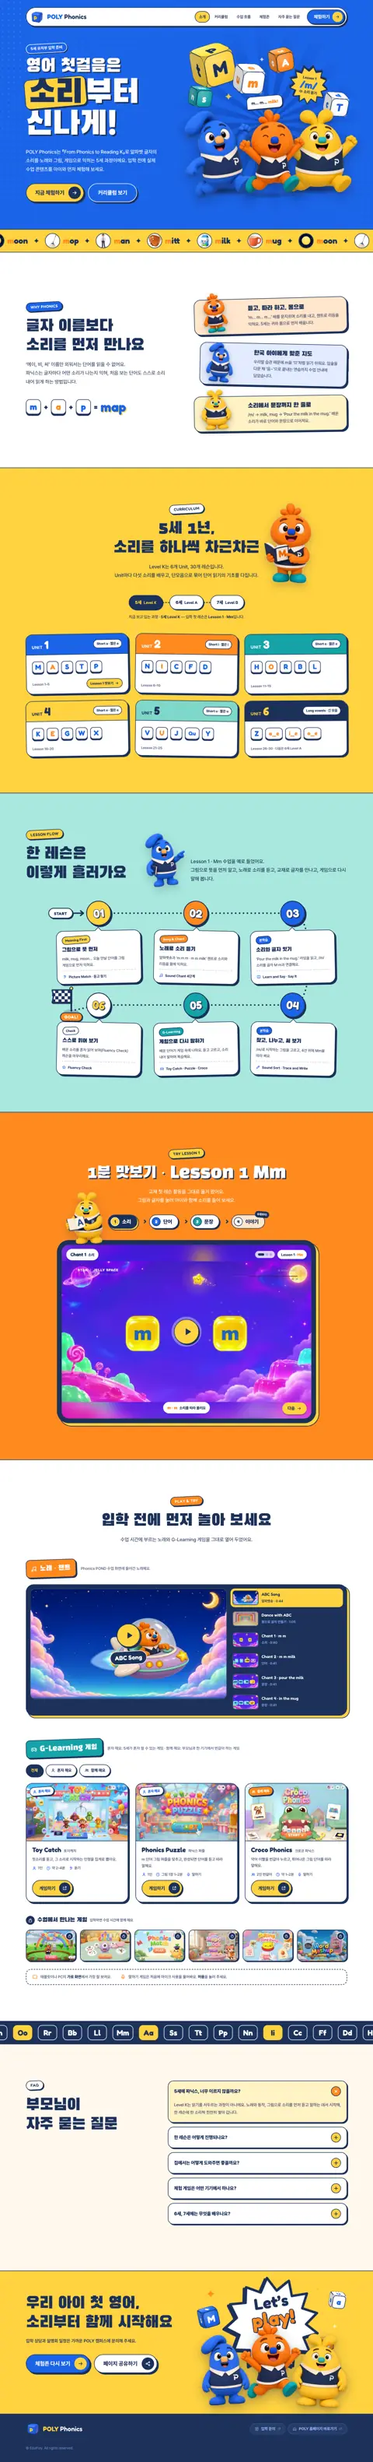
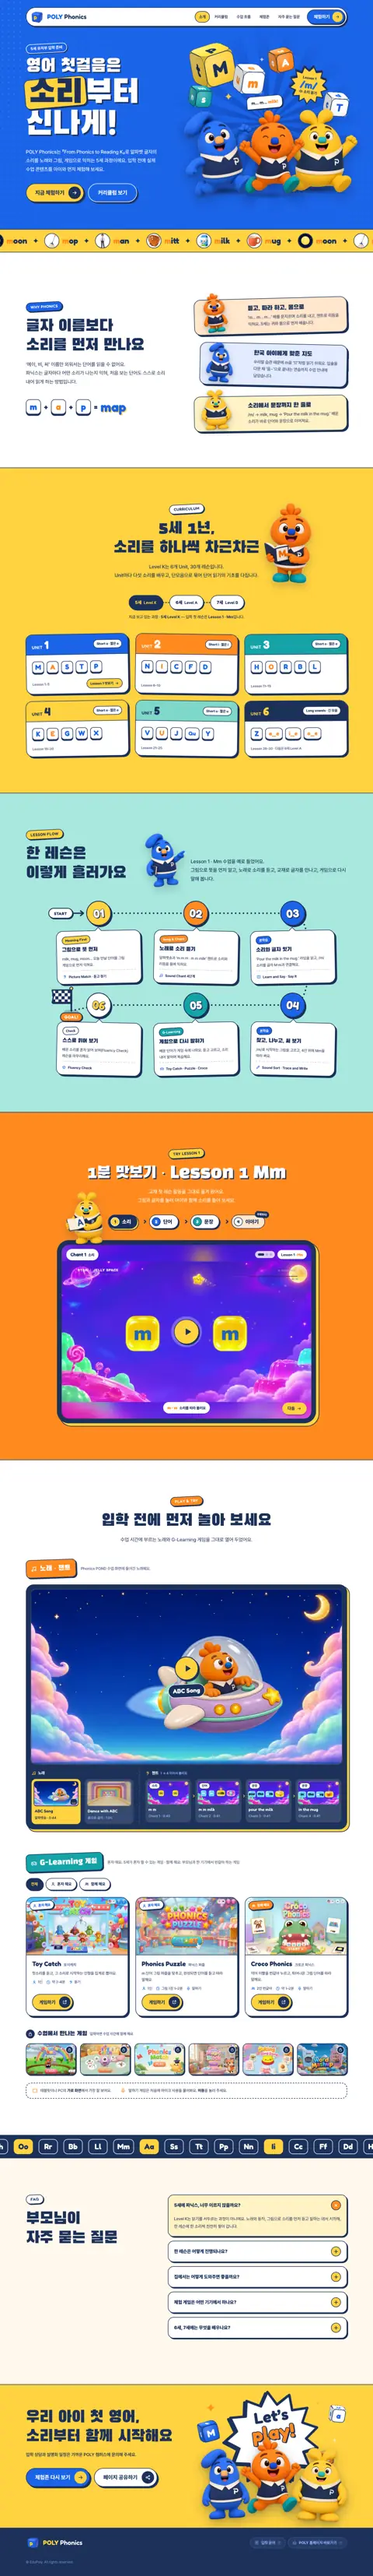
C: songs player = big screen + grouped rail (노래 | 챈트 1→4); survey faces move as a whole
- Player: full-width video, thumbnails below in two groups, chant cards carry 소리/단어/문장 chips and lyrics,
  now-playing bars; phones get 2-col / 2x2 grids (no side-scroll)
- Survey: drop the head/body split (it opened gaps at the collar); the whole figure moves from its base, blinks and heartbeats stay

diff --git a/assets/css/survey.css b/assets/css/survey.css
@@ -49,13 +49,9 @@
 @keyframes svFloat { 0%, 100% { translate: 0 0; } 50% { translate: 0 -3px; } }
 .sv-t { font-size: 13px; font-weight: 700; color: var(--sv-muted); text-align: center; line-height: 1.25; word-break: keep-all; }
 .sv-faces label:hover { transform: translateY(-2px); }
-/* layered faces (tools/survey_faces.py): the head turns on its neck, eyes blink, hearts beat — body (collar) stays in front */
-.sv-face { position: relative; }
-.sv-face img, .sv-hd { position: absolute; inset: 0; width: 100%; height: 100%; }
-.sv-hd { transform-origin: var(--neck, 50% 72%); animation: svIdle 3.6s ease-in-out infinite; }
-.sv-faces .f1 { --neck: 49% 74%; } .sv-faces .f2 { --neck: 50% 74%; } .sv-faces .f3 { --neck: 49% 75%; } .sv-faces .f4 { --neck: 45% 63%; } .sv-faces .f5 { --neck: 50% 68%; }
-.sv-faces .f2 .sv-hd { animation-delay: -1s; } .sv-faces .f3 .sv-hd { animation-delay: -2s; } .sv-faces .f4 .sv-hd { animation-delay: -.5s; } .sv-faces .f5 .sv-hd { animation-delay: -2.6s; }
-@keyframes svIdle { 0%, 100% { rotate: 0deg; } 50% { rotate: 1.6deg; } }
+/* faces: the whole figure moves from its base (no separate head — that opened gaps at the collar); eyes blink, hearts beat */
+.sv-face { position: relative; transform-origin: 50% 100%; }
+.sv-face img { position: absolute; inset: 0; width: 100%; height: 100%; }
 .sv-lid { opacity: 0; animation: svBlink 4.4s infinite; }
 .sv-faces .f3 .sv-lid { animation-delay: -1.7s; } .sv-faces .f4 .sv-lid { animation-delay: -3.1s; }
 @keyframes svBlink { 0%, 92%, 95.6%, 100% { opacity: 0; } 92.2%, 95.4% { opacity: 1; } }   /* snap shut and open — a cross-fade reads as glasses */
@@ -64,23 +60,19 @@
 @keyframes svBeat { 0%, 40%, 100% { scale: 1; } 12% { scale: 1.16; } 26% { scale: 1.06; } }
 /* picked or hovered: each face acts out its feeling */
 .sv-faces label:hover .sv-face, .sv-faces label:has(input:checked) .sv-face { scale: 1.06; }
-.sv-faces .f1:hover .sv-hd, .sv-faces .f1:has(input:checked) .sv-hd { animation: svNo 1.3s ease-in-out infinite; }             /* 전혀요: shakes head */
-.sv-faces .f2:hover .sv-hd, .sv-faces .f2:has(input:checked) .sv-hd { animation: svSigh 2.4s ease-in-out infinite; }           /* 별로: droops, sighs */
-.sv-faces .f2:hover .sv-face, .sv-faces .f2:has(input:checked) .sv-face { animation: svSighBody 2.4s ease-in-out infinite; transform-origin: 50% 100%; }
-.sv-faces .f3:hover .sv-hd, .sv-faces .f3:has(input:checked) .sv-hd { animation: svTilt 2s ease-in-out infinite; }             /* 보통: tilts, blinks */
-.sv-faces .f3:hover .sv-lid, .sv-faces .f3:has(input:checked) .sv-lid { animation-duration: 2s; }
-.sv-faces .f4:hover .sv-hd, .sv-faces .f4:has(input:checked) .sv-hd { animation: svYes .8s ease-in-out infinite; }              /* 좋아했어요: nods */
-.sv-faces .f4:hover .sv-face, .sv-faces .f4:has(input:checked) .sv-face { animation: svBounce .8s ease-in-out infinite; transform-origin: 50% 100%; }
-.sv-faces .f5:hover .sv-hd, .sv-faces .f5:has(input:checked) .sv-hd { animation: svSway 1.1s ease-in-out infinite; }            /* 아주 좋아했어요: sways, hearts race */
-.sv-faces .f5:hover .sv-face, .sv-faces .f5:has(input:checked) .sv-face { animation: svBounce .55s ease-in-out infinite; transform-origin: 50% 100%; }
-.sv-faces .f5:hover .sv-heart, .sv-faces .f5:has(input:checked) .sv-heart { animation-duration: .55s; }
-@keyframes svNo { 0%, 100% { rotate: 0deg; } 8% { rotate: -7deg; } 20% { rotate: 7deg; } 32% { rotate: -5deg; } 44% { rotate: 3deg; } 54% { rotate: 0deg; } }
-@keyframes svSigh { 0%, 100% { rotate: 0deg; translate: 0 0; } 45%, 70% { rotate: -9deg; translate: 0 3%; } }
-@keyframes svSighBody { 0%, 100% { scale: 1.06 1.06; } 45%, 70% { scale: 1.08 1.01; } }
-@keyframes svTilt { 0%, 100% { rotate: 0deg; } 35%, 65% { rotate: 7deg; } }
-@keyframes svYes { 0%, 100% { rotate: 0deg; translate: 0 0; } 30% { rotate: 4deg; translate: 0 4%; } 60% { rotate: -2deg; translate: 0 -1%; } }
-@keyframes svBounce { 0%, 100% { translate: 0 0; scale: 1.06 1.06; } 15% { scale: 1.12 .98; } 45% { translate: 0 -9%; scale: 1.02 1.1; } 75% { translate: 0 0; scale: 1.1 1; } }
-@keyframes svSway { 0%, 100% { rotate: -6deg; } 50% { rotate: 6deg; } }
+.sv-faces .f1:hover .sv-face, .sv-faces .f1:has(input:checked) .sv-face { animation: svNo 1.4s ease-in-out infinite; }      /* 전혀요: shakes, no no */
+.sv-faces .f2:hover .sv-face, .sv-faces .f2:has(input:checked) .sv-face { animation: svSigh 2.6s ease-in-out infinite; }    /* 별로: slumps with a sigh */
+.sv-faces .f3:hover .sv-face, .sv-faces .f3:has(input:checked) .sv-face { animation: svTilt 2.2s ease-in-out infinite; }    /* 보통: a gentle lean */
+.sv-faces .f3:hover .sv-lid, .sv-faces .f3:has(input:checked) .sv-lid { animation-duration: 2.2s; }
+.sv-faces .f4:hover .sv-face, .sv-faces .f4:has(input:checked) .sv-face { animation: svBounce .8s ease-in-out infinite; }   /* 좋아했어요: hops */
+.sv-faces .f5:hover .sv-face, .sv-faces .f5:has(input:checked) .sv-face { animation: svJoy 1s ease-in-out infinite; }       /* 아주 좋아했어요: hops and sways, hearts race */
+.sv-faces .f5:hover .sv-heart, .sv-faces .f5:has(input:checked) .sv-heart { animation-duration: .5s; }
+@keyframes svNo { 0%, 60%, 100% { rotate: 0deg; } 10% { rotate: -4deg; } 22% { rotate: 4deg; } 34% { rotate: -3deg; } 46% { rotate: 2deg; } }
+@keyframes svSigh { 0%, 100% { rotate: 0deg; scale: 1.06 1.06; } 45%, 70% { rotate: -3deg; scale: 1.09 1.01; } }
+@keyframes svTilt { 0%, 100% { rotate: 0deg; } 35%, 65% { rotate: 3.5deg; } }
+@keyframes svBounce { 0%, 100% { translate: 0 0; scale: 1.06 1.06; } 15% { scale: 1.11 .99; } 45% { translate: 0 -8%; scale: 1.03 1.09; } 75% { translate: 0 0; scale: 1.09 1.01; } }
+@keyframes svJoy { 0%, 100% { translate: 0 0; rotate: 0deg; scale: 1.06 1.06; } 12% { scale: 1.1 1; } 30% { translate: 0 -8%; rotate: -4deg; scale: 1.03 1.09; }
+  50% { translate: 0 0; rotate: 0deg; scale: 1.1 1; } 70% { translate: 0 -8%; rotate: 4deg; scale: 1.03 1.09; } }
 .sv-faces label:has(input:checked) { border-color: var(--sv-accent); background: var(--sv-accent-soft); }
 .sv-faces label:has(input:checked) .sv-t { color: var(--sv-ink); }
 .sv input[type=radio] { position: absolute; opacity: 0; pointer-events: none; }
@@ -137,5 +129,5 @@
   .sv-actions { flex-direction: column-reverse; }
   .sv-later, .sv-send { width: 100%; }
 }
-@media (prefers-reduced-motion: reduce) { .sv.is-in .sv-card, .sv-face, .sv-hd, .sv-lid, .sv-heart, .sv-big, .sv-meter b { animation: none !important; } }
+@media (prefers-reduced-motion: reduce) { .sv.is-in .sv-card, .sv-face, .sv-lid, .sv-heart, .sv-big, .sv-meter b { animation: none !important; } }
 @media print { .sv { display: none !important; } }

diff --git a/assets/css/concept-c.css b/assets/css/concept-c.css
@@ -604,15 +604,55 @@ button.g:hover { transform: translate(2px, 2px); box-shadow: 2px 2px 0 var(--c-n
 .screen-title { font-family: var(--f-en); font-weight: 700; font-size: 24px; color: var(--c-white); letter-spacing: 0; padding: 4px 16px; border-radius: 999px; background: var(--c-navy); border: 2px solid var(--c-white); rotate: -3deg; }
 .screen.is-playing .screen-play { opacity: 0; pointer-events: none; }
 .print-poster { display: none; }
-.playlist { list-style: none; margin: 0; padding: 0; display: flex; flex-direction: column; gap: 8px; }
-.pl { width: 100%; display: flex; align-items: center; gap: 12px; padding: 6px; border-radius: 16px; border: 2px solid transparent; text-align: left; color: var(--c-white); transition: background-color .3s var(--ease), border-color .3s var(--ease); }
-.pl:hover { background: var(--c-white-a12); }
+/* player: big screen on top, a rail of thumbnails below in two groups — 노래 | 챈트 1→4 (user 2026-11-25) */
+.player { grid-template-columns: 1fr; gap: 16px; padding: 16px; }
+.pl-rail { display: grid; grid-template-columns: 2fr 4fr; gap: 0; }
+.pl-group { min-width: 0; padding: 4px 4px 2px; }
+.pg-chant { padding-left: 22px; margin-left: 18px; border-left: 2px dashed var(--c-white-a20); }
+.pg-head { display: flex; align-items: center; gap: 7px; margin: 0 0 10px; font-weight: 800; font-size: 15px; color: var(--c-white); }
+.pg-head .ic { width: 18px; height: 18px; color: var(--c-yellow); }
+.pg-head small { font-size: 13px; font-weight: 700; color: var(--c-blue-300); }
+.playlist { list-style: none; margin: 0; padding: 0; display: grid; grid-auto-flow: column; grid-auto-columns: 1fr; gap: 16px; }
+.playlist li { position: relative; min-width: 0; }
+.pg-chant .playlist li:not(:last-child)::after { content: ""; position: absolute; top: calc(50% - 22px); right: -12px; width: 7px; height: 7px;
+  border-top: 2.5px solid var(--c-yellow); border-right: 2.5px solid var(--c-yellow); transform: rotate(45deg); }
+.pl { width: 100%; display: flex; flex-direction: column; gap: 8px; padding: 6px 6px 10px; border-radius: 16px; border: 2px solid transparent; text-align: left; color: var(--c-white);
+  background: var(--c-white-a12); cursor: pointer; transition: background-color .3s var(--ease), border-color .3s var(--ease), transform .3s var(--ease); }
+.pl:hover { background: var(--c-white-a20); transform: translateY(-2px); }
 .pl.is-on { background: var(--c-yellow); color: var(--c-navy); border-color: var(--c-yellow); }
-.pl img { width: 100px; aspect-ratio: 16 / 9; object-fit: cover; border-radius: 10px; border: 2px solid var(--c-white-a20); flex: none; }
-.pl.is-on img { border-color: var(--c-navy); }
-.pl b { display: block; font-family: var(--f-en); font-weight: 600; font-size: 16px; letter-spacing: 0; line-height: 1.3; }
+.pl-shot { position: relative; display: block; }
+.pl-shot img { display: block; width: 100%; aspect-ratio: 16 / 9; object-fit: cover; border-radius: 11px; border: 2px solid var(--c-white-a20); }
+.pl.is-on .pl-shot img { border-color: var(--c-navy); }
+.pl-stage { position: absolute; left: 6px; top: 6px; padding: 2px 9px; border-radius: 999px; background: var(--c-white); color: var(--c-navy); border: 2px solid var(--c-navy);
+  font-size: 12px; font-weight: 800; line-height: 1.4; }
+.pl-now { position: absolute; right: 6px; bottom: 6px; display: none; align-items: flex-end; gap: 2px; height: 22px; padding: 4px 6px; border-radius: 8px; background: var(--c-navy); }
+.pl-now i { display: block; width: 3px; height: 30%; border-radius: 2px; background: var(--c-yellow); }
+.pl.is-on .pl-now { display: inline-flex; }
+.player:has(.screen.is-playing) .pl.is-on .pl-now i { animation: plEq .9s ease-in-out infinite; }
+.pl-now i:nth-child(2) { animation-delay: -.3s !important; } .pl-now i:nth-child(3) { animation-delay: -.6s !important; }
+@keyframes plEq { 0%, 100% { height: 30%; } 50% { height: 100%; } }
+.pl-txt { display: block; padding: 0 4px; min-width: 0; }
+.pl b { display: block; font-family: var(--f-en); font-weight: 600; font-size: 16px; letter-spacing: 0; line-height: 1.3; white-space: nowrap; overflow: hidden; text-overflow: ellipsis; }
 .pl small { font-size: 13px; font-weight: 600; color: var(--c-blue-300); }
 .pl.is-on small { color: var(--c-navy); }
+@media (max-width: 1080px) {
+  .playlist { gap: 12px; }
+  .pg-chant { padding-left: 16px; margin-left: 14px; }
+  .pg-chant .playlist li:not(:last-child)::after { right: -10px; }
+  .pl b { font-size: 14px; }
+  .pl small { font-size: 12px; }
+}
+@media (max-width: 767px) {
+  .player { gap: 12px; padding: 10px; }
+  .pl-rail { grid-template-columns: 1fr; gap: 14px; }
+  .pg-chant { padding-left: 4px; margin-left: 0; border-left: 0; padding-top: 14px; border-top: 2px dashed var(--c-white-a20); }
+  .pg-song .playlist, .pg-chant .playlist { grid-template-columns: repeat(2, 1fr); grid-auto-flow: row; gap: 10px; }
+  .pg-chant .playlist li::after { display: none; }
+  .pl { padding: 5px 5px 8px; gap: 6px; border-radius: 14px; }
+  .pl b { font-size: 14px; }
+  .pl small { font-size: 12px; }
+}
+@media (prefers-reduced-motion: reduce) { .pl-now i { animation: none !important; } }
 
 .cards { display: grid; gap: 28px; }
 .cards-2 { grid-template-columns: repeat(2, 1fr); }
@@ -762,11 +802,6 @@ button.g:hover { transform: translate(2px, 2px); box-shadow: 2px 2px 0 var(--c-n
   .faq-head { position: static; }
   .faq-char, .faq-pal { display: none; }
   .units { grid-template-columns: repeat(2, 1fr); }
-  .player { grid-template-columns: 1fr; }
-  .playlist { flex-direction: row; overflow-x: auto; scroll-snap-type: x mandatory; padding-bottom: 4px; }
-  .playlist li { flex: 0 0 auto; scroll-snap-align: start; }
-  .pl { width: auto; flex-direction: column; align-items: flex-start; gap: 6px; }
-  .pl img { width: 150px; }
   .cta-in { grid-template-columns: 1fr; }
   .cta-copy { padding-bottom: 10px; }
   .cta-art { max-width: 480px; width: 100%; margin: 0 auto; }

diff --git a/concept-c.html b/concept-c.html
@@ -14,8 +14,8 @@
 <link rel="preconnect" href="https://fonts.gstatic.com" crossorigin>
 <link rel="stylesheet" href="https://cdn.jsdelivr.net/gh/orioncactus/pretendard@v1.3.9/dist/web/variable/pretendardvariable-dynamic-subset.min.css">
 <link rel="stylesheet" href="https://fonts.googleapis.com/css2?family=Black+Han+Sans&family=Fredoka:wght@500;600;700&display=swap">
-<link rel="stylesheet" href="assets/css/concept-c.css?v=537424b9">
-<link rel="stylesheet" href="assets/css/survey.css?v=d1ed87d8">
+<link rel="stylesheet" href="assets/css/concept-c.css?v=310b807a">
+<link rel="stylesheet" href="assets/css/survey.css?v=8b41a041">
 </head>
 <body>
 
@@ -424,14 +424,25 @@
           </button>
           <img class="print-poster" src="assets/video/abc-song.jpg" alt="ABC Song 영상 장면">
         </div>
-        <ol class="playlist">
-          <li><button type="button" class="pl is-on" data-src="abc-song" data-title="ABC Song"><img src="assets/video/abc-song.jpg" alt="" loading="lazy" decoding="async"><span><b>ABC Song</b><small>알파벳송 · 0:44</small></span></button></li>
-          <li><button type="button" class="pl" data-src="dance-abc" data-title="Dance with ABC"><img src="assets/video/dance-abc.jpg?v=20261125b" alt="" loading="lazy" decoding="async"><span><b>Dance with ABC</b><small>몸으로 글자 만들기 · 1:05</small></span></button></li>
-          <li><button type="button" class="pl" data-src="l1-chant-1" data-title="Sound Chant 1"><img src="assets/video/l1-chant-1.jpg?v=20261125b" alt="" loading="lazy" decoding="async"><span><b>Chant 1 · m m</b><small>소리 · 0:40</small></span></button></li>
-          <li><button type="button" class="pl" data-src="l1-chant-2" data-title="Sound Chant 2"><img src="assets/video/l1-chant-2.jpg?v=20261125b" alt="" loading="lazy" decoding="async"><span><b>Chant 2 · m m milk</b><small>단어 · 0:41</small></span></button></li>
-          <li><button type="button" class="pl" data-src="l1-chant-3" data-title="Sound Chant 3"><img src="assets/video/l1-chant-3.jpg?v=20261125b" alt="" loading="lazy" decoding="async"><span><b>Chant 3 · pour the milk</b><small>문장 · 0:41</small></span></button></li>
-          <li><button type="button" class="pl" data-src="l1-chant-4" data-title="Sound Chant 4"><img src="assets/video/l1-chant-4.jpg?v=20261125b" alt="" loading="lazy" decoding="async"><span><b>Chant 4 · in the mug</b><small>문장 · 0:41</small></span></button></li>
-        </ol>
+        <!-- big screen + a rail below: 노래 | 챈트 1→4 (user 2026-11-25) -->
+        <div class="pl-rail">
+          <div class="pl-group pg-song">
+            <p class="pg-head"><svg class="ic"><use href="#i-music"/></svg>노래</p>
+            <ol class="playlist">
+            <li><button type="button" class="pl is-on" data-src="abc-song" data-title="ABC Song"><span class="pl-shot"><img src="assets/video/abc-song.jpg" alt="" loading="lazy" decoding="async"><span class="pl-now" aria-hidden="true"><i></i><i></i><i></i></span></span><span class="pl-txt"><b lang="en">ABC Song</b><small>알파벳송 · 0:44</small></span></button></li>
+            <li><button type="button" class="pl" data-src="dance-abc" data-title="Dance with ABC"><span class="pl-shot"><img src="assets/video/dance-abc.jpg?v=20261125b" alt="" loading="lazy" decoding="async"><span class="pl-now" aria-hidden="true"><i></i><i></i><i></i></span></span><span class="pl-txt"><b lang="en">Dance with ABC</b><small>몸으로 글자 · 1:05</small></span></button></li>
+            </ol>
+          </div>
+          <div class="pl-group pg-chant">
+            <p class="pg-head"><svg class="ic"><use href="#i-ear"/></svg>챈트 <small>1 → 4 이어서 불러요</small></p>
+            <ol class="playlist">
+            <li><button type="button" class="pl" data-src="l1-chant-1" data-title="Sound Chant 1"><span class="pl-shot"><img src="assets/video/l1-chant-1.jpg?v=20261125b" alt="" loading="lazy" decoding="async"><span class="pl-stage">소리</span><span class="pl-now" aria-hidden="true"><i></i><i></i><i></i></span></span><span class="pl-txt"><b lang="en">m m</b><small>Chant 1 · 0:40</small></span></button></li>
+            <li><button type="button" class="pl" data-src="l1-chant-2" data-title="Sound Chant 2"><span class="pl-shot"><img src="assets/video/l1-chant-2.jpg?v=20261125b" alt="" loading="lazy" decoding="async"><span class="pl-stage">단어</span><span class="pl-now" aria-hidden="true"><i></i><i></i><i></i></span></span><span class="pl-txt"><b lang="en">m m milk</b><small>Chant 2 · 0:41</small></span></button></li>
+            <li><button type="button" class="pl" data-src="l1-chant-3" data-title="Sound Chant 3"><span class="pl-shot"><img src="assets/video/l1-chant-3.jpg?v=20261125b" alt="" loading="lazy" decoding="async"><span class="pl-stage">문장</span><span class="pl-now" aria-hidden="true"><i></i><i></i><i></i></span></span><span class="pl-txt"><b lang="en">pour the milk</b><small>Chant 3 · 0:41</small></span></button></li>
+            <li><button type="button" class="pl" data-src="l1-chant-4" data-title="Sound Chant 4"><span class="pl-shot"><img src="assets/video/l1-chant-4.jpg?v=20261125b" alt="" loading="lazy" decoding="async"><span class="pl-stage">문장</span><span class="pl-now" aria-hidden="true"><i></i><i></i><i></i></span></span><span class="pl-txt"><b lang="en">in the mug</b><small>Chant 4 · 0:41</small></span></button></li>
+            </ol>
+          </div>
+        </div>
       </div>
     </div>
 
@@ -593,6 +604,6 @@
 
 <script src="assets/js/site.js?v=7c46f246" defer></script>
 <script src="assets/js/concept-c.js?v=97c44cad" defer></script>
-<script src="assets/js/survey.js?v=d929baac" defer></script>
+<script src="assets/js/survey.js?v=eyes1" defer></script>
 </body>
 </html>

diff --git a/assets/js/survey.js b/assets/js/survey.js
@@ -1,7 +1,8 @@
 /* After every game or video, a short survey pops up — one per item, the same form for all (user 2026-11-25).
    Games open in a new tab: the survey shows when the parent comes back to this page.
    Videos: the survey shows when a video ends (each chant separately; the next one waits until the survey closes).
-   Faces are Tata expressions split into head / body / eyelid / heart layers (tools/survey_faces.py) so survey.css can move them like a real face.
+   Faces are Tata expressions with eyelid / heart overlays (tools/survey_faces.py); survey.css moves the whole figure from its base (a head
+   turning on its own opened gaps at the collar — user 2026-11-25).
    Answers are NOT sent anywhere yet ("화면만 먼저"): they stay in this browser (localStorage 'polySurvey.v1').
    Loaded after site.js on every concept page. */
 (() => {
@@ -27,7 +28,7 @@
         <legend>아이가 재미있어 했나요?</legend>
         <div class="sv-faces" role="radiogroup">
           ${[['1', '전혀요'], ['2', '별로'], ['3', '보통'], ['4', '좋아했어요'], ['5', '아주 좋아했어요']]
-            .map(([v, t]) => `<label class="f${v}"><input type="radio" name="fun" value="${v}" required><span class="sv-face" aria-hidden="true"><span class="sv-hd"><img src="assets/img/emoji3d/fun-${v}-head.webp?v=layers1" alt="">${v === '2' || v === '3' || v === '4' ? `<img class="sv-lid" src="assets/img/emoji3d/fun-${v}-lid.webp?v=layers1" alt="">` : ''}${v === '5' ? `<img class="sv-heart hl" src="assets/img/emoji3d/fun-5-heartL.webp?v=layers1" alt=""><img class="sv-heart hr" src="assets/img/emoji3d/fun-5-heartR.webp?v=layers1" alt="">` : ''}</span><img class="sv-body" src="assets/img/emoji3d/fun-${v}-body.webp?v=layers1" alt=""></span><span class="sv-t">${t}</span></label>`).join('')}
+            .map(([v, t]) => `<label class="f${v}"><input type="radio" name="fun" value="${v}" required><span class="sv-face" aria-hidden="true"><img src="assets/img/emoji3d/fun-${v}.webp?v=eyes1" alt="">${v === '2' || v === '3' || v === '4' ? `<img class="sv-lid" src="assets/img/emoji3d/fun-${v}-lid.webp?v=eyes1" alt="">` : ''}${v === '5' ? `<img class="sv-heart hl" src="assets/img/emoji3d/fun-5-heartL.webp?v=eyes1" alt=""><img class="sv-heart hr" src="assets/img/emoji3d/fun-5-heartR.webp?v=eyes1" alt="">` : ''}</span><span class="sv-t">${t}</span></label>`).join('')}
         </div>
       </fieldset>
       <fieldset class="sv-q">

diff --git a/concept-b.html b/concept-b.html
@@ -15,7 +15,7 @@
 <link rel="stylesheet" href="https://cdn.jsdelivr.net/gh/orioncactus/pretendard@v1.3.9/dist/web/variable/pretendardvariable-dynamic-subset.min.css">
 <link rel="stylesheet" href="https://fonts.googleapis.com/css2?family=Fredoka:wght@500;600;700&family=Jua&display=swap">
 <link rel="stylesheet" href="assets/css/concept-b.css">
-<link rel="stylesheet" href="assets/css/survey.css?v=d1ed87d8">
+<link rel="stylesheet" href="assets/css/survey.css?v=8b41a041">
 </head>
 <body>
 
@@ -623,6 +623,6 @@
 
 <script src="assets/js/site.js?v=7c46f246" defer></script>
 <script src="assets/js/concept-b.js" defer></script>
-<script src="assets/js/survey.js?v=d929baac" defer></script>
+<script src="assets/js/survey.js?v=eyes1" defer></script>
 </body>
 </html>

diff --git a/concept-d.html b/concept-d.html
@@ -15,7 +15,7 @@
 <link rel="stylesheet" href="https://cdn.jsdelivr.net/gh/orioncactus/pretendard@v1.3.9/dist/web/variable/pretendardvariable-dynamic-subset.min.css">
 <link rel="stylesheet" href="https://fonts.googleapis.com/css2?family=Fredoka:wght@500;600;700&display=swap">
 <link rel="stylesheet" href="assets/css/concept-d.css">
-<link rel="stylesheet" href="assets/css/survey.css?v=d1ed87d8">
+<link rel="stylesheet" href="assets/css/survey.css?v=8b41a041">
 </head>
 <body>
 
@@ -591,6 +591,6 @@
 
 <script src="assets/js/site.js?v=7c46f246" defer></script>
 <script src="assets/js/concept-d.js" defer></script>
-<script src="assets/js/survey.js?v=d929baac" defer></script>
+<script src="assets/js/survey.js?v=eyes1" defer></script>
 </body>
 </html>

diff --git a/concept-a.html b/concept-a.html
@@ -15,7 +15,7 @@
 <link rel="stylesheet" href="https://cdn.jsdelivr.net/gh/orioncactus/pretendard@v1.3.9/dist/web/variable/pretendardvariable-dynamic-subset.min.css">
 <link rel="stylesheet" href="https://fonts.googleapis.com/css2?family=Fredoka:wght@500;600;700&display=swap">
 <link rel="stylesheet" href="assets/css/concept-a.css">
-<link rel="stylesheet" href="assets/css/survey.css?v=d1ed87d8">
+<link rel="stylesheet" href="assets/css/survey.css?v=8b41a041">
 </head>
 <body>
 
@@ -548,6 +548,6 @@
 
 <script src="assets/js/concept-a.js"></script>
 <script src="assets/js/site.js?v=7c46f246" defer></script>
-<script src="assets/js/survey.js?v=d929baac" defer></script>
+<script src="assets/js/survey.js?v=eyes1" defer></script>
 </body>
 </html>

diff --git a/tools/survey_faces.py b/tools/survey_faces.py
@@ -1,6 +1,4 @@
-"""Survey faces (Tata expressions, assets/img/emoji3d/fun-1..5.webp) split into layers so CSS can move them like a real face:
-  fun-N-body.webp  everything except the head (collar in front)
-  fun-N-head.webp  the head (+ a band below the collar line, hidden under the body, so a tilt never opens a gap)
+"""Survey faces (Tata expressions, assets/img/emoji3d/fun-1..5.webp): overlays so CSS can blink the eyes and beat the hearts:
   fun-N-lid.webp   closed eyelids for a blink (faces with open eyes: 2, 3, 4)
   fun-5-heartL/R.webp  each heart eye on its own, to pulse around its own centre
 Prints the neck pivot and heart centres (% of the canvas) for survey.css.
@@ -30,7 +28,7 @@ for n in range(1, 6):
     hmask = (head | (band & (al > 0)))
     headA = a.copy(); headA[~hmask, 3] = 0
     bodyA = a.copy(); bodyA[head, 3] = 0
-    save(headA, f'fun-{n}-head.webp'); save(bodyA, f'fun-{n}-body.webp')
+    # (head/body layers were tried and dropped: a head turning on its own opened gaps at the collar)
     cx = (x0 + x1) / 2
     info[n] = {'neck': [round(cx / W * 100, 1), round(split / H * 100, 1)]}
     # blink: open eyes = white blobs in the face (not the collar), fill with fitted skin, draw a soft lash curve
